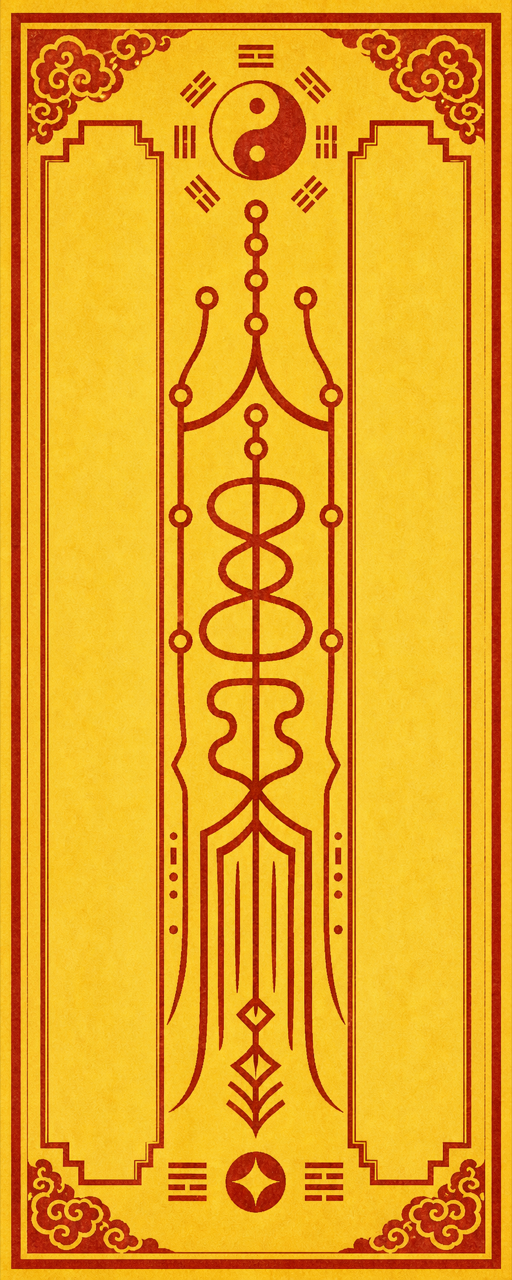
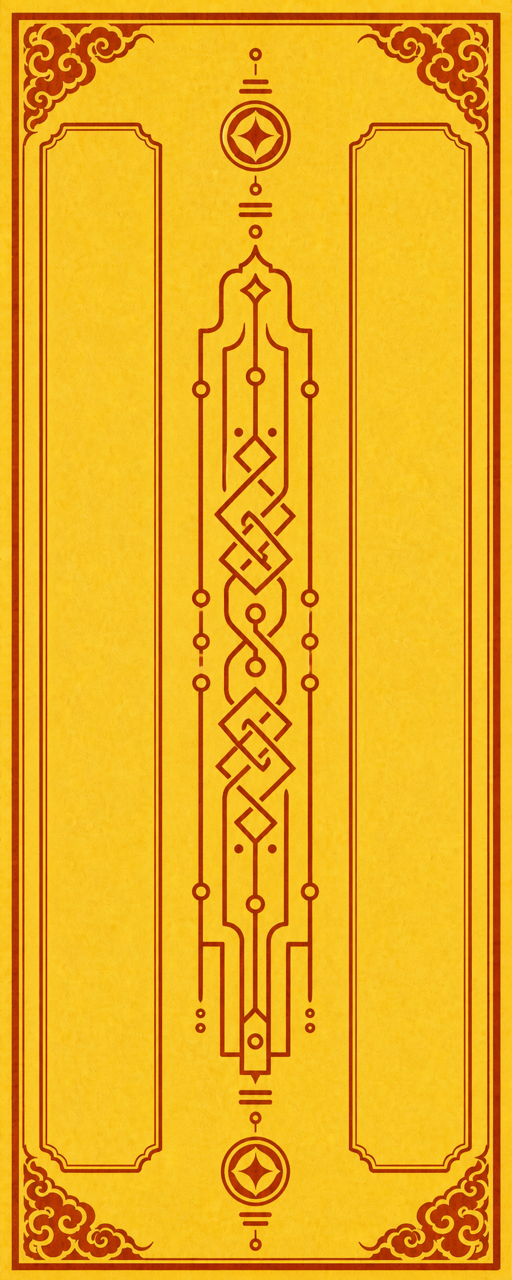
feat(visual-assets): add prevention talisman v1 assets

Changed region(s): [[0.0, 0.0, 1.0, 1.0], [0.75, 0.7188, 0.7812, 0.75]]

diff --git a/src/lib/visualAssetManifest.test.ts b/src/lib/visualAssetManifest.test.ts
@@ -175,13 +175,13 @@ describe("visual asset manifest", () => {
       leftColumn: {
         bottomPercent: 84,
         innerEdgePercent: 35,
-        outerEdgePercent: 18,
+        outerEdgePercent: 12,
         topPercent: 18,
       },
       rightColumn: {
         bottomPercent: 84,
         innerEdgePercent: 65,
-        outerEdgePercent: 82,
+        outerEdgePercent: 88,
         topPercent: 18,
       },
     });
@@ -250,6 +250,13 @@ describe("visual asset manifest", () => {
       transparentBackground: false,
     });
     expect(VISUAL_ASSET_REPLACEMENT_REGISTRY.talismanSituation.doNotBake).toContain("用户执行意图文本");
+    expect(VISUAL_ASSET_REPLACEMENT_REGISTRY.talismanPrevention).toMatchObject({
+      dimensionPolicy: "exact-source-canvas",
+      sourceCanvas: { height: 1280, width: 512 },
+      status: "final",
+      transparentBackground: false,
+    });
+    expect(VISUAL_ASSET_REPLACEMENT_REGISTRY.talismanPrevention.doNotBake).toContain("用户执行意图文本");
     expect(VISUAL_ASSET_REPLACEMENT_REGISTRY.incenseCompact).toMatchObject({
       dimensionPolicy: "exact-source-canvas",
       manifestSlots: [

diff --git a/src/styles.css b/src/styles.css
@@ -1460,11 +1460,16 @@ select {
 }
 
 .altar-scene .talisman-visual--prevention {
-  --talisman-column-edge: 8%;
+  --talisman-column-edge: 12%;
   --talisman-text-center-y: 50%;
   width: clamp(28px, 2.8vw, 38px);
-  min-height: clamp(82px, 8.6vw, 112px);
+  min-height: 0;
+  aspect-ratio: 2 / 5;
   transform-origin: center top;
+}
+
+.altar-scene .talisman-visual--prevention .talisman-visual__template .visual-layer__asset {
+  object-fit: fill;
 }
 
 .altar-scene .talisman-visual__label {

diff --git a/src/lib/visualAssets.ts b/src/lib/visualAssets.ts
@@ -152,13 +152,13 @@ export const TALISMAN_TEXT_SAFE_ZONES = {
   leftColumn: {
     bottomPercent: 84,
     innerEdgePercent: 35,
-    outerEdgePercent: 18,
+    outerEdgePercent: 12,
     topPercent: 18,
   },
   rightColumn: {
     bottomPercent: 84,
     innerEdgePercent: 65,
-    outerEdgePercent: 82,
+    outerEdgePercent: 88,
     topPercent: 18,
   },
 } as const satisfies Record<"leftColumn" | "rightColumn", TalismanTextSafeZone>;
@@ -231,9 +231,9 @@ export const VISUAL_ASSET_REPLACEMENT_REGISTRY = {
     directory: VISUAL_ASSET_DIRECTORIES.talismanPrevention,
     doNotBake: ["用户执行意图文本", "退场状态", "完成状态"],
     manifestSlots: ["talisman/prevention/template", "talisman/prevention/state", "talisman/prevention/text"],
-    notes: "正式预防符箓只替换模板图；2-3 张时仍由布局水平排列在桌面前沿。",
+    notes: "预防符箓 v1 使用正式黄纸朱砂模板；2-3 张时仍由布局水平排列在桌面前沿。",
     sourceCanvas: { height: 1280, width: 512 },
-    status: "temporary-test",
+    status: "final",
     transparentBackground: false,
   },
   censerStage: {

diff --git a/src/components/TalismanVisual.tsx b/src/components/TalismanVisual.tsx
@@ -168,12 +168,15 @@ const TalismanVisual = ({
 
   return (
     <div
+      aria-label={`${label}：${text}`}
       className={className}
       data-talisman-click-action="none"
       data-talisman-interaction-role={interactionRole}
       data-talisman-preview-active={isPreviewActive ? "true" : "false"}
       data-talisman-state={visualState}
       data-talisman-variant={variant}
+      role="group"
+      tabIndex={disabled ? -1 : 0}
       onBlur={() => setPreviewActive(false)}
       onFocus={() => setPreviewActive(true)}
       onMouseEnter={() => setPreviewActive(true)}

diff --git a/src/assets/visuals/talisman/prevention/README.md b/src/assets/visuals/talisman/prevention/README.md
@@ -1,6 +1,6 @@
 # 预防性符箓素材
 
-本目录用于未来放置预防性执行意图符箓模板。
+本目录放置预防性执行意图符箓模板。当前 `template.png` 是预防符箓 v1 正式模板。
 
 ## 对应插槽
 
@@ -8,16 +8,16 @@
 - `talisman/prevention/state`
 - `talisman/prevention/text`
 
-## 未来素材
+## 当前素材
 
-- `template.png`：真实符箓背景模板。
+- `template.png`：512×1280 RGB PNG，黄纸朱砂模板，包含固定边框、纸张质感和收窄的中央门框结纹。
 - `state.png`：未来燃烧、消失或禁用状态层素材。
 
 预防性执行意图文字必须保留为 React 文本层覆盖，不烘焙进图片。
 
 ## 接入规则
 
-- 真实符箓必须来自上传好的图片模板，不用 CSS 或 SVG 重画假符箓。
+- 真实符箓必须使用图片模板，不用 CSS 或 SVG 重画假符箓。
 - `template` 和 `state` 可以接入图片，`text` 始终由 React 文本层渲染。
 - 预防性符箓只展示预案内容，不承担启动计时入口。
 - 模板需要为左右竖排文字保留清晰空白栏，中央符文不得压到文字区。
@@ -27,7 +27,6 @@
 
 ## 当前不做
 
-- `template.png` 是临时测试素材，不是最终符箓设计。
 - 不宣称宗教、玄学或超自然功效。
 - 不用 CSS 或 SVG 重新画假符箓。
 - 不做预防性符箓燃烧动画；预防性符箓只在该套完成后退场。

diff --git a/src/assets/visuals/README.md b/src/assets/visuals/README.md
@@ -1,6 +1,6 @@
 # 视觉素材清单
 
-本目录用于未来接入真实符箓、香炉、线香和主祭台背景素材。当前阶段接入了五类测试素材：一组小窗 Q 版香炉测试 PNG、一组主祭台香炉测试 PNG、一组主祭台线香测试 PNG、两张主祭台符箓模板测试 PNG，以及一张主祭台背景测试 PNG。它们只用于验证素材管线和排版方向，不代表最终视觉设计。正式素材职责边界见 `docs/VISUAL_ASSET_BOUNDARIES.md`。
+本目录用于接入符箓、香炉、线香和主祭台背景素材。情境性和预防性符箓模板当前均已接入正式 v1；其他素材现状以各叶子目录 README 和 registry 为准。正式素材职责边界见 `docs/VISUAL_ASSET_BOUNDARIES.md`。
 
 ## 目录与用途
 
@@ -125,7 +125,7 @@
 
 `talisman/situation/template.png` 是 AI 生成的情境符箓 v1 正式模板。它使用黄纸朱砂构图，为左右竖排 React 文本层保留安全区，并保持中央抽象符纹不侵入文字栏；它不宣称宗教、玄学或超自然功效。
 
-`talisman/prevention/template.png` 是 AI 生成的临时符箓模板测试素材。它用于验证预防性符箓图片模板、左右竖排文本覆盖层和 manifest 引用链路，不代表最终符箓设计，也不宣称宗教、玄学或超自然功效。
+`talisman/prevention/template.png` 是 AI 生成的预防符箓 v1 正式模板。它沿用黄纸朱砂体系，以收窄的门框和结纹构图区分情境符箓，为左右竖排 React 文本层保留安全区，并保持中央抽象符纹不侵入文字栏；它不宣称宗教、玄学或超自然功效。
 
 `altar/background.png` 是 AI 生成的主祭台背景 v1。它用于提供共享桌面、三香炉并排和预防性符箓水平贴边的空间基准。背景图不能自带固定香炉、符箓、线香或状态文字；香炉必须继续由组件独立渲染。
 

diff --git a/docs/ASSET_PIPELINE.md b/docs/ASSET_PIPELINE.md
@@ -1,6 +1,6 @@
 # 视觉素材接入管线
 
-本文件约定未来真实符箓、香炉、线香素材如何进入项目。当前版本已接入主祭台背景 v1、主祭台香炉 v1 和情境符箓 v1；情境符箓已有最小燃烧淡出动画，其他复杂动画暂不做。素材目录内的执行清单见 `src/assets/visuals/README.md`，正式素材职责边界见 `docs/VISUAL_ASSET_BOUNDARIES.md`，正式替换步骤见 `docs/VISUAL_ASSET_REPLACEMENT_CHECKLIST.md`。
+本文件约定未来真实符箓、香炉、线香素材如何进入项目。当前版本已接入主祭台背景 v1、主祭台香炉 v1、情境符箓 v1 和预防符箓 v1；情境符箓已有最小燃烧淡出动画，其他复杂动画暂不做。素材目录内的执行清单见 `src/assets/visuals/README.md`，正式素材职责边界见 `docs/VISUAL_ASSET_BOUNDARIES.md`，正式替换步骤见 `docs/VISUAL_ASSET_REPLACEMENT_CHECKLIST.md`。
 
 ## 目录结构
 

diff --git a/docs/VISUAL_ASSET_REPLACEMENT_CHECKLIST.md b/docs/VISUAL_ASSET_REPLACEMENT_CHECKLIST.md
@@ -56,7 +56,7 @@ npm run check:visual-assets
 | `censerStage` | 主祭台香炉 v1 | `src/assets/visuals/censer/stage` | 香炉底部中心点和盖子闭合位置 |
 | `censerCompact` | 临时测试素材 | `src/assets/visuals/censer/compact` | 小窗香炉底部中心点和并排槽位中心 |
 | `talismanSituation` | 情境符箓 v1 | `src/assets/visuals/talisman/situation` | 左右竖排文字栏和中央符文分区 |
-| `talismanPrevention` | 临时测试素材 | `src/assets/visuals/talisman/prevention` | 左右竖排文字栏和中央符文分区 |
+| `talismanPrevention` | 预防符箓 v1 | `src/assets/visuals/talisman/prevention` | 左右竖排文字栏和中央符文分区 |
 | `incenseStage` | 临时测试素材 | `src/assets/visuals/incense/stage` | 香炉炉口中心线和左到右燃烧顺序 |
 | `incenseCompact` | 临时测试素材 | `src/assets/visuals/incense/compact` | 小窗香炉炉口中心线和左到右燃烧顺序 |
 